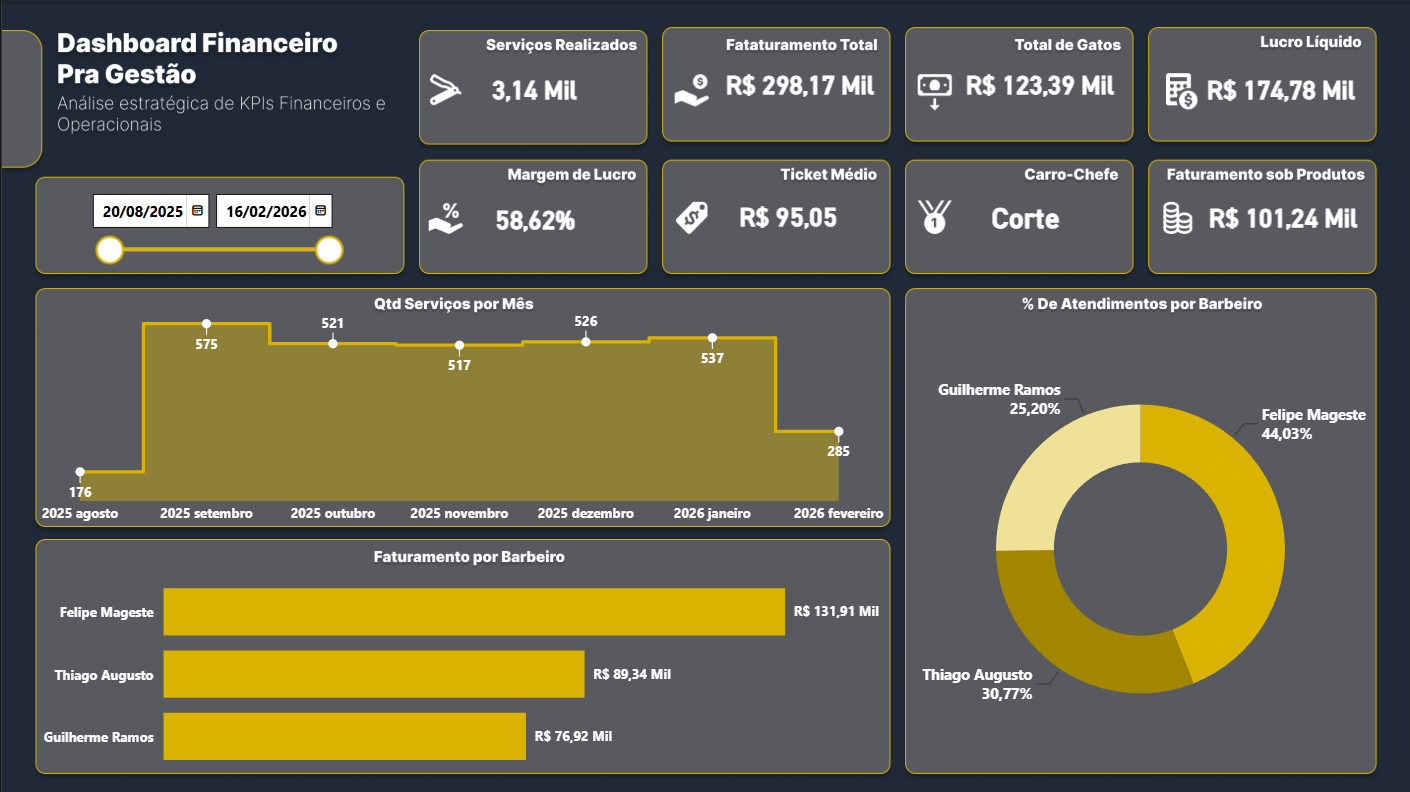
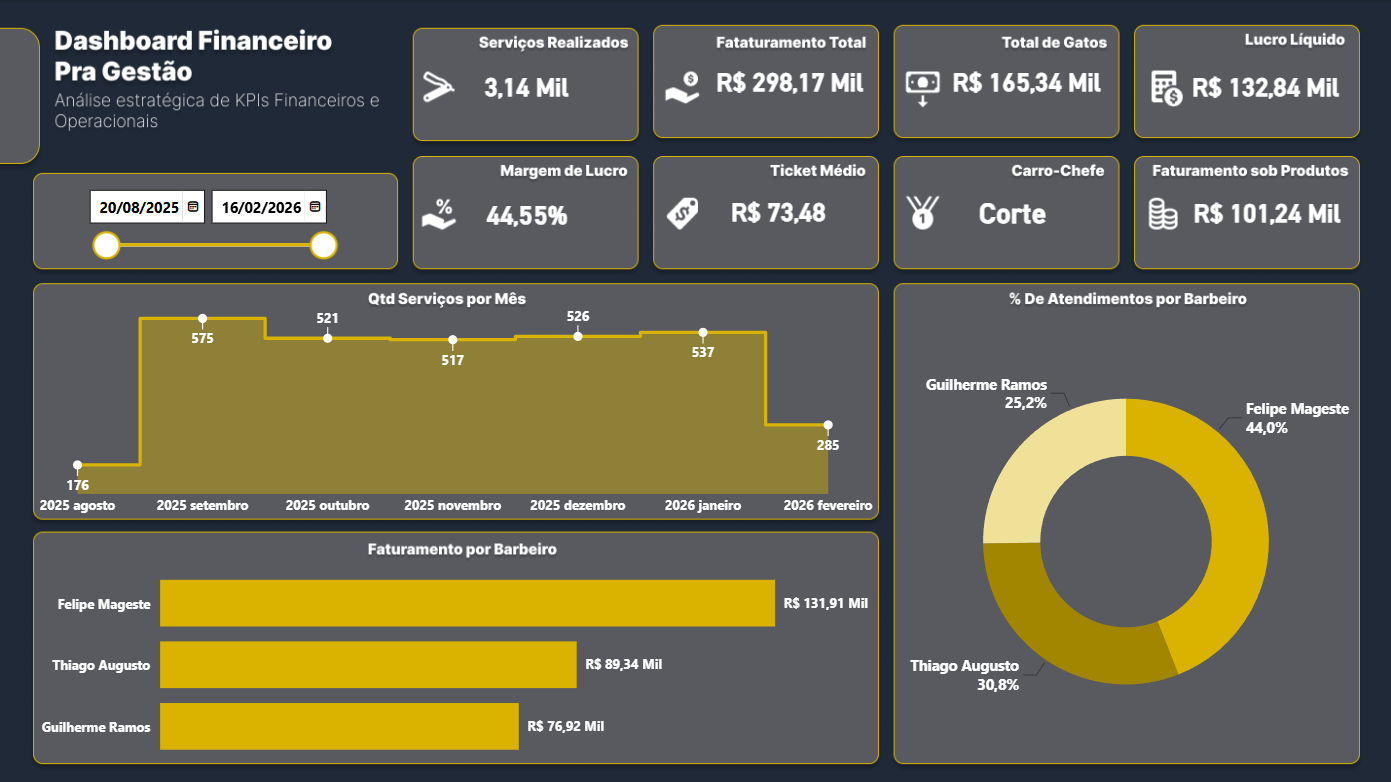
Atualiza imagem do dashboard com indicadores revisados

diff --git a/README.md b/README.md
@@ -179,7 +179,9 @@ Repetição dentro da seleção não equivale à retenção entre meses. A exist
 - [Capa](1%20-%20Capa.png).
 - [Imagem do dashboard](2-%20Dashboard.png).
 
-As imagens existentes não foram atualizadas nesta revisão do README. Seus indicadores podem refletir uma versão anterior do relatório; os valores documentados acima correspondem ao modelo revisado.
+A imagem do dashboard foi atualizada com a captura enviada. O cartão intitulado “Lucro Líquido” na imagem corresponde ao resultado gerencial descrito neste README, sem estimativa de impostos não cadastrados.
+
+![Dashboard financeiro da El Patron Barbearia](2-%20Dashboard.png)
 
 ## Tecnologias verificadas
 
